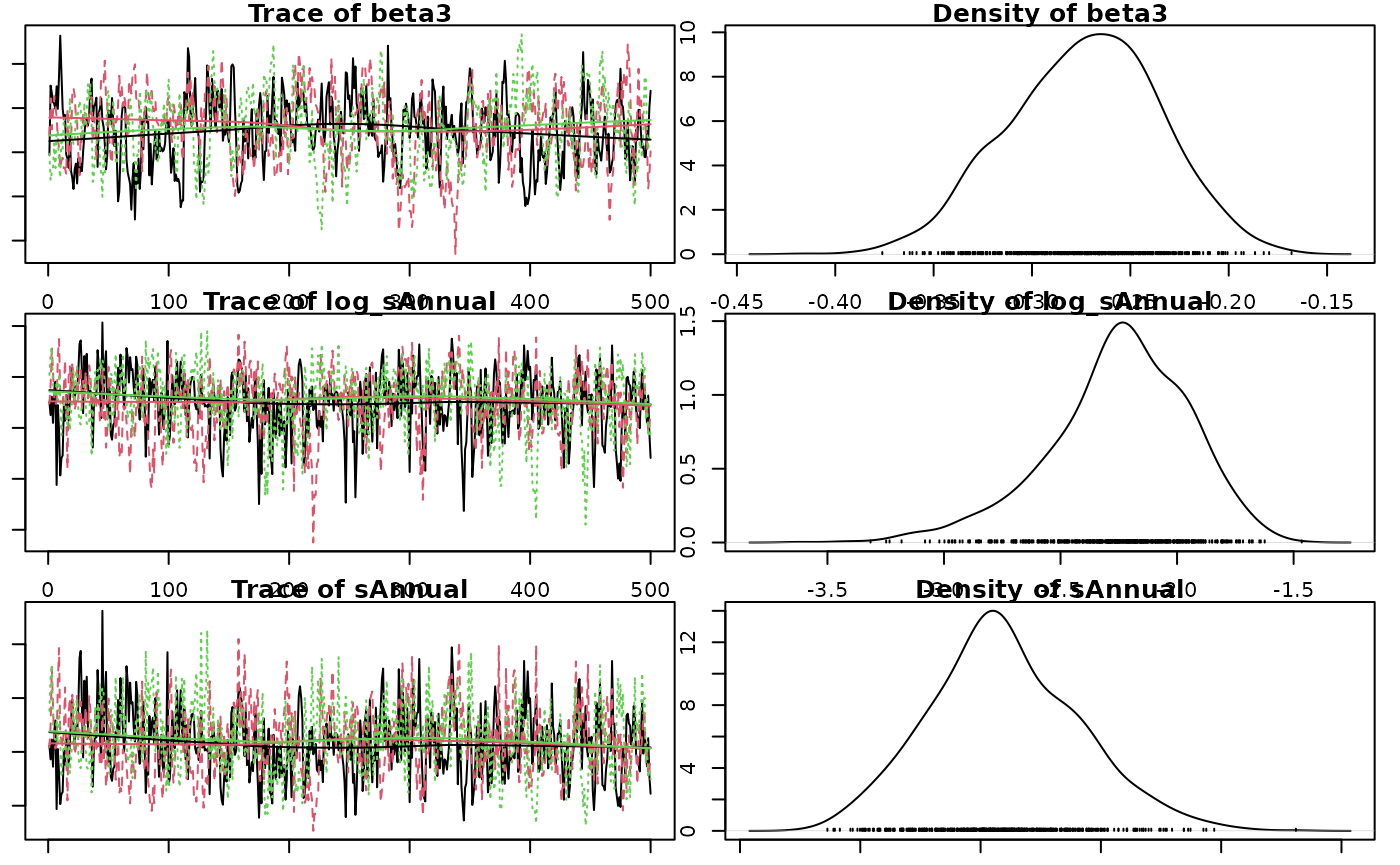
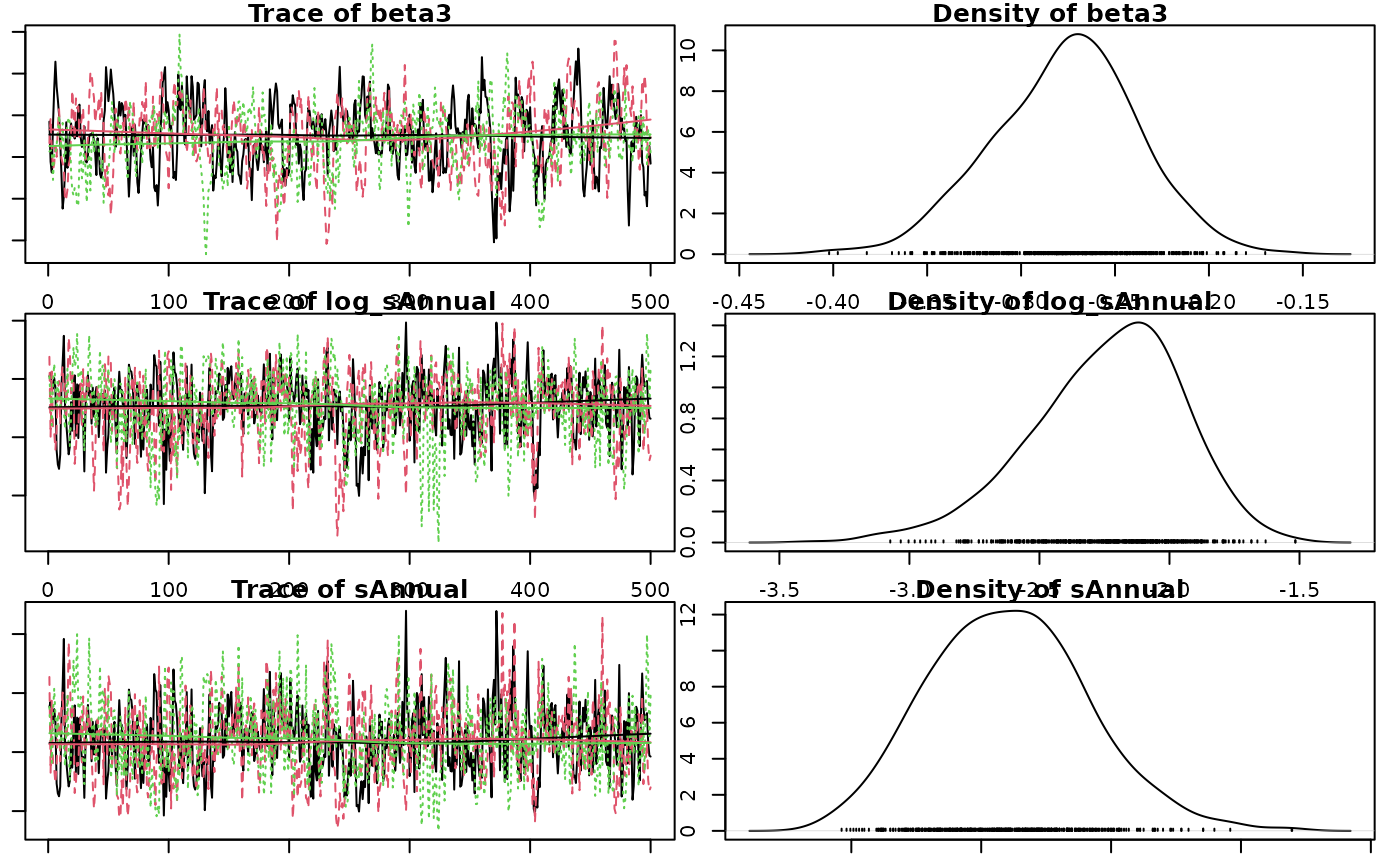
Built site for jmbr@0.0.0.9116: 896c16e

diff --git a/articles/jmbr.html b/articles/jmbr.html
@@ -32,7 +32,7 @@
       </button>
       <span class="navbar-brand">
         <a class="navbar-link" href="../index.html">jmbr</a>
-        <span class="version label label-default" data-toggle="tooltip" data-placement="bottom" title="">0.0.0.9115</span>
+        <span class="version label label-default" data-toggle="tooltip" data-placement="bottom" title="">0.0.0.9116</span>
       </span>
     </div>
 
@@ -300,14 +300,14 @@ value and discarding all other values.</p>
 <span><span class="co">#&gt; <span style="color: #949494;"># A tibble: 1 × 8</span></span></span>
 <span><span class="co">#&gt;       n     K nchains niters nthin   ess  rhat converged</span></span>
 <span><span class="co">#&gt;   <span style="color: #949494; font-style: italic;">&lt;int&gt;</span> <span style="color: #949494; font-style: italic;">&lt;int&gt;</span>   <span style="color: #949494; font-style: italic;">&lt;int&gt;</span>  <span style="color: #949494; font-style: italic;">&lt;int&gt;</span> <span style="color: #949494; font-style: italic;">&lt;int&gt;</span> <span style="color: #949494; font-style: italic;">&lt;int&gt;</span> <span style="color: #949494; font-style: italic;">&lt;dbl&gt;</span> <span style="color: #949494; font-style: italic;">&lt;lgl&gt;</span>    </span></span>
-<span><span class="co">#&gt; <span style="color: #BCBCBC;">1</span>    40     6       3    500    10   224  1.01 TRUE</span></span>
+<span><span class="co">#&gt; <span style="color: #BCBCBC;">1</span>    40     6       3    500    10   252  1.01 TRUE</span></span>
 <span><span class="co">#&gt; Warning in value[[3L]](cond): beep() could not play the sound due to the following error:</span></span>
 <span><span class="co">#&gt; Error in play.default(x, rate, ...): no audio drivers are available</span></span>
 <span><span class="va">analysis</span> <span class="op">&lt;-</span> <span class="fu"><a href="https://rdrr.io/pkg/embr/man/reanalyse.html" class="external-link">reanalyse</a></span><span class="op">(</span><span class="va">analysis</span><span class="op">)</span></span>
 <span><span class="co">#&gt; <span style="color: #949494;"># A tibble: 1 × 8</span></span></span>
 <span><span class="co">#&gt;       n     K nchains niters nthin   ess  rhat converged</span></span>
 <span><span class="co">#&gt;   <span style="color: #949494; font-style: italic;">&lt;int&gt;</span> <span style="color: #949494; font-style: italic;">&lt;int&gt;</span>   <span style="color: #949494; font-style: italic;">&lt;int&gt;</span>  <span style="color: #949494; font-style: italic;">&lt;int&gt;</span> <span style="color: #949494; font-style: italic;">&lt;int&gt;</span> <span style="color: #949494; font-style: italic;">&lt;int&gt;</span> <span style="color: #949494; font-style: italic;">&lt;dbl&gt;</span> <span style="color: #949494; font-style: italic;">&lt;lgl&gt;</span>    </span></span>
-<span><span class="co">#&gt; <span style="color: #BCBCBC;">1</span>    40     6       3    500    10   224  1.01 TRUE</span></span>
+<span><span class="co">#&gt; <span style="color: #BCBCBC;">1</span>    40     6       3    500    10   252  1.01 TRUE</span></span>
 <span><span class="co">#&gt; Warning in value[[3L]](cond): beep() could not play the sound due to the following error:</span></span>
 <span><span class="co">#&gt; Error in play.default(x, rate, ...): no audio drivers are available</span></span></code></pre></div>
 <p><strong>Analysis Table:</strong></p>
@@ -357,12 +357,12 @@ between- and within-chain estimates for model parameters.
 <span><span class="co">#&gt; <span style="color: #949494;"># A tibble: 6 × 7</span></span></span>
 <span><span class="co">#&gt;   term        estimate     sd  zscore   lower   upper   pvalue</span></span>
 <span><span class="co">#&gt;   <span style="color: #949494; font-style: italic;">&lt;term&gt;</span>         <span style="color: #949494; font-style: italic;">&lt;dbl&gt;</span>  <span style="color: #949494; font-style: italic;">&lt;dbl&gt;</span>   <span style="color: #949494; font-style: italic;">&lt;dbl&gt;</span>   <span style="color: #949494; font-style: italic;">&lt;dbl&gt;</span>   <span style="color: #949494; font-style: italic;">&lt;dbl&gt;</span>    <span style="color: #949494; font-style: italic;">&lt;dbl&gt;</span></span></span>
-<span><span class="co">#&gt; <span style="color: #BCBCBC;">1</span> alpha         4.26   0.040<span style="text-decoration: underline;">2</span> 106.     4.19    4.34   0.000<span style="text-decoration: underline;">666</span></span></span>
-<span><span class="co">#&gt; <span style="color: #BCBCBC;">2</span> beta1         1.19   0.074<span style="text-decoration: underline;">5</span>  16.1    1.06    1.35   0.000<span style="text-decoration: underline;">666</span></span></span>
-<span><span class="co">#&gt; <span style="color: #BCBCBC;">3</span> beta2        -<span style="color: #BB0000;">0.017</span><span style="color: #BB0000; text-decoration: underline;">9</span> 0.030<span style="text-decoration: underline;">2</span>  -<span style="color: #BB0000;">0.601</span> -<span style="color: #BB0000;">0.079</span><span style="color: #BB0000; text-decoration: underline;">0</span>  0.040<span style="text-decoration: underline;">6</span> 0.530   </span></span>
-<span><span class="co">#&gt; <span style="color: #BCBCBC;">4</span> beta3        -<span style="color: #BB0000;">0.272</span>  0.038<span style="text-decoration: underline;">4</span>  -<span style="color: #BB0000;">7.13</span>  -<span style="color: #BB0000;">0.350</span>  -<span style="color: #BB0000;">0.202</span>  0.000<span style="text-decoration: underline;">666</span></span></span>
-<span><span class="co">#&gt; <span style="color: #BCBCBC;">5</span> log_sAnnual  -<span style="color: #BB0000;">2.23</span>   0.303   -<span style="color: #BB0000;">7.43</span>  -<span style="color: #BB0000;">2.95</span>   -<span style="color: #BB0000;">1.74</span>   0.000<span style="text-decoration: underline;">666</span></span></span>
-<span><span class="co">#&gt; <span style="color: #BCBCBC;">6</span> sAnnual       0.108  0.031<span style="text-decoration: underline;">2</span>   3.53   0.052<span style="text-decoration: underline;">3</span>  0.176  0.000<span style="text-decoration: underline;">666</span></span></span></code></pre></div>
+<span><span class="co">#&gt; <span style="color: #BCBCBC;">1</span> alpha         4.26   0.042<span style="text-decoration: underline;">0</span> 102.     4.17    4.34   0.000<span style="text-decoration: underline;">666</span></span></span>
+<span><span class="co">#&gt; <span style="color: #BCBCBC;">2</span> beta1         1.20   0.075<span style="text-decoration: underline;">6</span>  15.9    1.06    1.36   0.000<span style="text-decoration: underline;">666</span></span></span>
+<span><span class="co">#&gt; <span style="color: #BCBCBC;">3</span> beta2        -<span style="color: #BB0000;">0.017</span><span style="color: #BB0000; text-decoration: underline;">3</span> 0.032<span style="text-decoration: underline;">1</span>  -<span style="color: #BB0000;">0.536</span> -<span style="color: #BB0000;">0.079</span><span style="color: #BB0000; text-decoration: underline;">7</span>  0.045<span style="text-decoration: underline;">3</span> 0.594   </span></span>
+<span><span class="co">#&gt; <span style="color: #BCBCBC;">4</span> beta3        -<span style="color: #BB0000;">0.275</span>  0.038<span style="text-decoration: underline;">8</span>  -<span style="color: #BB0000;">7.12</span>  -<span style="color: #BB0000;">0.355</span>  -<span style="color: #BB0000;">0.204</span>  0.000<span style="text-decoration: underline;">666</span></span></span>
+<span><span class="co">#&gt; <span style="color: #BCBCBC;">5</span> log_sAnnual  -<span style="color: #BB0000;">2.21</span>   0.293   -<span style="color: #BB0000;">7.66</span>  -<span style="color: #BB0000;">2.91</span>   -<span style="color: #BB0000;">1.75</span>   0.000<span style="text-decoration: underline;">666</span></span></span>
+<span><span class="co">#&gt; <span style="color: #BCBCBC;">6</span> sAnnual       0.109  0.030<span style="text-decoration: underline;">6</span>   3.61   0.054<span style="text-decoration: underline;">6</span>  0.173  0.000<span style="text-decoration: underline;">666</span></span></span></code></pre></div>
 <p>The estimate is the <strong>median</strong> by default.</p>
 <p>The zscore is
 <math display="inline" xmlns="http://www.w3.org/1998/Math/MathML"><semantics><mrow><mi>m</mi><mi>e</mi><mi>a</mi><mi>n</mi><mi>/</mi><mi>s</mi><mi>d</mi></mrow><annotation encoding="application/x-tex">mean / sd</annotation></semantics></math>.</p>
@@ -371,12 +371,12 @@ between- and within-chain estimates for model parameters.
 <span><span class="co">#&gt; <span style="color: #949494;"># A tibble: 6 × 5</span></span></span>
 <span><span class="co">#&gt;   term        estimate   lower   upper svalue</span></span>
 <span><span class="co">#&gt;   <span style="color: #949494; font-style: italic;">&lt;term&gt;</span>         <span style="color: #949494; font-style: italic;">&lt;dbl&gt;</span>   <span style="color: #949494; font-style: italic;">&lt;dbl&gt;</span>   <span style="color: #949494; font-style: italic;">&lt;dbl&gt;</span>  <span style="color: #949494; font-style: italic;">&lt;dbl&gt;</span></span></span>
-<span><span class="co">#&gt; <span style="color: #BCBCBC;">1</span> alpha         4.26    4.19    4.34   10.6  </span></span>
-<span><span class="co">#&gt; <span style="color: #BCBCBC;">2</span> beta1         1.19    1.06    1.35   10.6  </span></span>
-<span><span class="co">#&gt; <span style="color: #BCBCBC;">3</span> beta2        -<span style="color: #BB0000;">0.017</span><span style="color: #BB0000; text-decoration: underline;">9</span> -<span style="color: #BB0000;">0.079</span><span style="color: #BB0000; text-decoration: underline;">0</span>  0.040<span style="text-decoration: underline;">6</span>  0.917</span></span>
-<span><span class="co">#&gt; <span style="color: #BCBCBC;">4</span> beta3        -<span style="color: #BB0000;">0.272</span>  -<span style="color: #BB0000;">0.350</span>  -<span style="color: #BB0000;">0.202</span>  10.6  </span></span>
-<span><span class="co">#&gt; <span style="color: #BCBCBC;">5</span> log_sAnnual  -<span style="color: #BB0000;">2.23</span>   -<span style="color: #BB0000;">2.95</span>   -<span style="color: #BB0000;">1.74</span>   10.6  </span></span>
-<span><span class="co">#&gt; <span style="color: #BCBCBC;">6</span> sAnnual       0.108   0.052<span style="text-decoration: underline;">3</span>  0.176  10.6</span></span></code></pre></div>
+<span><span class="co">#&gt; <span style="color: #BCBCBC;">1</span> alpha         4.26    4.17    4.34   10.6  </span></span>
+<span><span class="co">#&gt; <span style="color: #BCBCBC;">2</span> beta1         1.20    1.06    1.36   10.6  </span></span>
+<span><span class="co">#&gt; <span style="color: #BCBCBC;">3</span> beta2        -<span style="color: #BB0000;">0.017</span><span style="color: #BB0000; text-decoration: underline;">3</span> -<span style="color: #BB0000;">0.079</span><span style="color: #BB0000; text-decoration: underline;">7</span>  0.045<span style="text-decoration: underline;">3</span>  0.752</span></span>
+<span><span class="co">#&gt; <span style="color: #BCBCBC;">4</span> beta3        -<span style="color: #BB0000;">0.275</span>  -<span style="color: #BB0000;">0.355</span>  -<span style="color: #BB0000;">0.204</span>  10.6  </span></span>
+<span><span class="co">#&gt; <span style="color: #BCBCBC;">5</span> log_sAnnual  -<span style="color: #BB0000;">2.21</span>   -<span style="color: #BB0000;">2.91</span>   -<span style="color: #BB0000;">1.75</span>   10.6  </span></span>
+<span><span class="co">#&gt; <span style="color: #BCBCBC;">6</span> sAnnual       0.109   0.054<span style="text-decoration: underline;">6</span>  0.173  10.6</span></span></code></pre></div>
 <p>The s-value is the <strong>suprisal</strong> value, which is a
 measure of directionality with respect to zero.</p>
 <p>The s-value is zero (unsurprising) when <em>p-value</em> = 1.0 and

diff --git a/news/index.html b/news/index.html
@@ -17,7 +17,7 @@
       </button>
       <span class="navbar-brand">
         <a class="navbar-link" href="../index.html">jmbr</a>
-        <span class="version label label-default" data-toggle="tooltip" data-placement="bottom" title="">0.0.0.9115</span>
+        <span class="version label label-default" data-toggle="tooltip" data-placement="bottom" title="">0.0.0.9116</span>
       </span>
     </div>
 
@@ -50,6 +50,13 @@
       <small>Source: <a href="https://github.com/poissonconsulting/jmbr/blob/main/NEWS.md" class="external-link"><code>NEWS.md</code></a></small>
     </div>
 
+    <div class="section level2">
+<h2 class="page-header" data-toc-text="0.0.0.9116" id="jmbr-0009116-2024-08-11">jmbr 0.0.0.9116 (2024-08-11)<a class="anchor" aria-label="anchor" href="#jmbr-0009116-2024-08-11"></a></h2>
+<div class="section level3">
+<h3 id="continuous-integration-0-0-0-9116">Continuous integration<a class="anchor" aria-label="anchor" href="#continuous-integration-0-0-0-9116"></a></h3>
+<ul><li>Fix edge case of no suggested packages.</li>
+</ul></div>
+</div>
     <div class="section level2">
 <h2 class="page-header" data-toc-text="0.0.0.9115" id="jmbr-0009115-2024-08-10">jmbr 0.0.0.9115 (2024-08-10)<a class="anchor" aria-label="anchor" href="#jmbr-0009115-2024-08-10"></a></h2>
 <div class="section level3">

diff --git a/articles/index.html b/articles/index.html
@@ -17,7 +17,7 @@
       </button>
       <span class="navbar-brand">
         <a class="navbar-link" href="../index.html">jmbr</a>
-        <span class="version label label-default" data-toggle="tooltip" data-placement="bottom" title="">0.0.0.9115</span>
+        <span class="version label label-default" data-toggle="tooltip" data-placement="bottom" title="">0.0.0.9116</span>
       </span>
     </div>
 

diff --git a/reference/index.html b/reference/index.html
@@ -17,7 +17,7 @@
       </button>
       <span class="navbar-brand">
         <a class="navbar-link" href="../index.html">jmbr</a>
-        <span class="version label label-default" data-toggle="tooltip" data-placement="bottom" title="">0.0.0.9115</span>
+        <span class="version label label-default" data-toggle="tooltip" data-placement="bottom" title="">0.0.0.9116</span>
       </span>
     </div>
 

diff --git a/reference/is.jmb_analysis.html b/reference/is.jmb_analysis.html
@@ -17,7 +17,7 @@
       </button>
       <span class="navbar-brand">
         <a class="navbar-link" href="../index.html">jmbr</a>
-        <span class="version label label-default" data-toggle="tooltip" data-placement="bottom" title="">0.0.0.9115</span>
+        <span class="version label label-default" data-toggle="tooltip" data-placement="bottom" title="">0.0.0.9116</span>
       </span>
     </div>
 

diff --git a/reference/is.jmb_code.html b/reference/is.jmb_code.html
@@ -17,7 +17,7 @@
       </button>
       <span class="navbar-brand">
         <a class="navbar-link" href="../index.html">jmbr</a>
-        <span class="version label label-default" data-toggle="tooltip" data-placement="bottom" title="">0.0.0.9115</span>
+        <span class="version label label-default" data-toggle="tooltip" data-placement="bottom" title="">0.0.0.9116</span>
       </span>
     </div>
 

diff --git a/reference/is.jmb_model.html b/reference/is.jmb_model.html
@@ -17,7 +17,7 @@
       </button>
       <span class="navbar-brand">
         <a class="navbar-link" href="../index.html">jmbr</a>
-        <span class="version label label-default" data-toggle="tooltip" data-placement="bottom" title="">0.0.0.9115</span>
+        <span class="version label label-default" data-toggle="tooltip" data-placement="bottom" title="">0.0.0.9116</span>
       </span>
     </div>
 

diff --git a/reference/jmbr-package.html b/reference/jmbr-package.html
@@ -17,7 +17,7 @@
       </button>
       <span class="navbar-brand">
         <a class="navbar-link" href="../index.html">jmbr</a>
-        <span class="version label label-default" data-toggle="tooltip" data-placement="bottom" title="">0.0.0.9115</span>
+        <span class="version label label-default" data-toggle="tooltip" data-placement="bottom" title="">0.0.0.9116</span>
       </span>
     </div>
 

diff --git a/404.html b/404.html
@@ -32,7 +32,7 @@
       </button>
       <span class="navbar-brand">
         <a class="navbar-link" href="index.html">jmbr</a>
-        <span class="version label label-default" data-toggle="tooltip" data-placement="bottom" title="">0.0.0.9115</span>
+        <span class="version label label-default" data-toggle="tooltip" data-placement="bottom" title="">0.0.0.9116</span>
       </span>
     </div>
 

diff --git a/CODE_OF_CONDUCT.html b/CODE_OF_CONDUCT.html
@@ -17,7 +17,7 @@
       </button>
       <span class="navbar-brand">
         <a class="navbar-link" href="index.html">jmbr</a>
-        <span class="version label label-default" data-toggle="tooltip" data-placement="bottom" title="">0.0.0.9115</span>
+        <span class="version label label-default" data-toggle="tooltip" data-placement="bottom" title="">0.0.0.9116</span>
       </span>
     </div>
 

diff --git a/CONTRIBUTING.html b/CONTRIBUTING.html
@@ -17,7 +17,7 @@
       </button>
       <span class="navbar-brand">
         <a class="navbar-link" href="index.html">jmbr</a>
-        <span class="version label label-default" data-toggle="tooltip" data-placement="bottom" title="">0.0.0.9115</span>
+        <span class="version label label-default" data-toggle="tooltip" data-placement="bottom" title="">0.0.0.9116</span>
       </span>
     </div>
 

diff --git a/LICENSE-text.html b/LICENSE-text.html
@@ -17,7 +17,7 @@
       </button>
       <span class="navbar-brand">
         <a class="navbar-link" href="index.html">jmbr</a>
-        <span class="version label label-default" data-toggle="tooltip" data-placement="bottom" title="">0.0.0.9115</span>
+        <span class="version label label-default" data-toggle="tooltip" data-placement="bottom" title="">0.0.0.9116</span>
       </span>
     </div>
 
